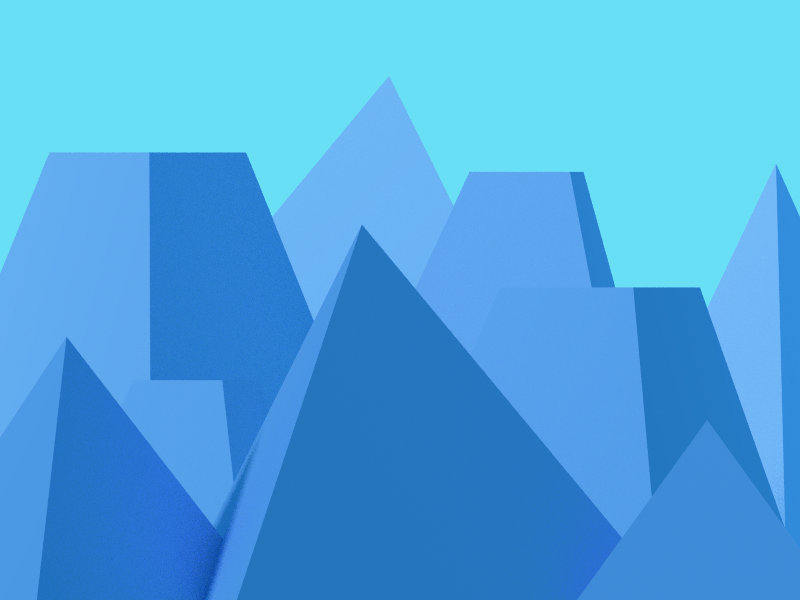
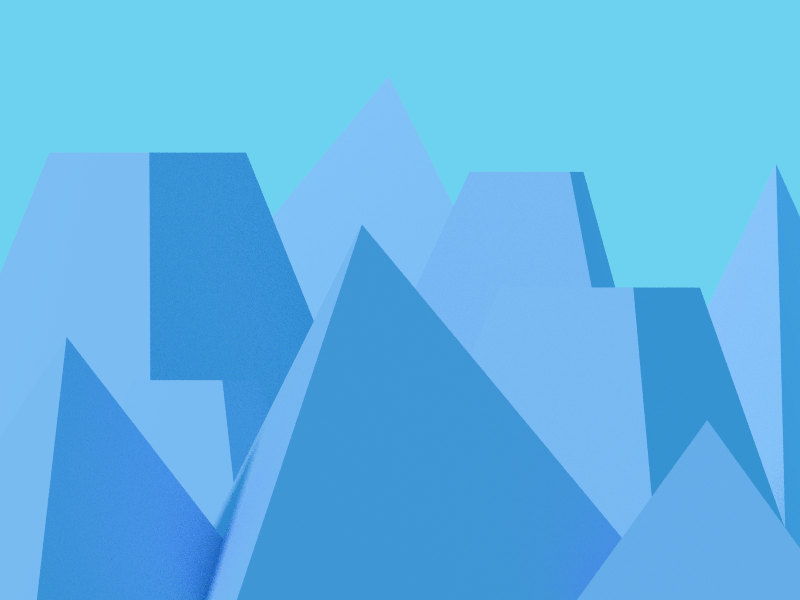
Background image

diff --git a/Main.py b/Main.py
@@ -9,12 +9,12 @@ from pygame.locals import *
 from Rabbit import *
 from Animation import *
 from Object import *
+from Resources import *
 
 class BumpNJump():
 
 	def initObjects(self):
-		self.objectList.append(Object("obj1", "earth.png", 100, 550))
-		self.objectList.append(Object("obj2", "earth.png", 50, 500))
+		self.objectList.append(Object("obj1", "earth.png", 250, 550))
 
 		for obj in self.objectList:
 			self.objectSpritesList.add(pygame.sprite.RenderPlain(obj))
@@ -27,9 +27,10 @@ class BumpNJump():
 		screen = pygame.display.set_mode((800, 600))
 		pygame.display.set_caption("Bump'N'Jump")
 
+		backgroundImage, backgroundRect = loadPNG("background.png")
+
 		background = pygame.Surface(screen.get_size())
 		background = background.convert()
-		background.fill((100, 150, 100))
 
 		rabbit = Rabbit(1, "john", self.objectList, self.objectSpritesList)
 		animRabbitSprite = pygame.sprite.RenderPlain(rabbit.getAnim())
@@ -39,7 +40,7 @@ class BumpNJump():
 
 		clock = pygame.time.Clock()
 
-		screen.blit(background, (0, 0))
+		screen.blit(backgroundImage, (0, 0))
 		pygame.display.flip()
 
 		while 1:
@@ -80,9 +81,9 @@ class BumpNJump():
 					if event.key == K_RIGHT:
 						rabbit.moveRightStop()
 
-			screen.fill((100, 150, 100))
-			screen.blit(background, rabbit.rect, rabbit.rect)
-			screen.blit(background, rabbit.getAnim().getRect(), rabbit.getAnim().getRect())
+			screen.blit(backgroundImage, backgroundRect, backgroundRect)
+			screen.blit(backgroundImage, rabbit.rect, rabbit.rect)
+			screen.blit(backgroundImage, rabbit.getAnim().getRect(), rabbit.getAnim().getRect())
 
 			for obj in self.objectList:
 				screen.blit(background, obj.rect, obj.rect)

diff --git a/Rabbit.py b/Rabbit.py
@@ -37,8 +37,8 @@ class Rabbit():
 		self.jumpSound = pygame.mixer.Sound("resources/sound/jump.wav")
 
 		self.velocity = 7
-		self.gravity = 1.2
-		self.jumpVelocity = -15
+		self.gravity = 0.6
+		self.jumpVelocity = -8
 
 		self.movePos = [0,0]
 		self.rect.topleft = (300, self.floorLevel)
@@ -124,18 +124,24 @@ class Rabbit():
 							self.movePos[1] = 0.01
 
 			if ((self.rect.y + self.rect.h) > obj.rect.y) and (self.rect.y < obj.rect.y):
+				print "bla1"
 				if (self.rect.x + self.rect.w) > obj.rect.x:
+					print "bla2"
 					if self.rect.x < (obj.rect.x + obj.rect.w):
+						print "bla3"
 						if self.movePos[1] >= 0 and not self.isOnBlock:
+							print "bla4"
+							self.rect.y = obj.rect.y - self.rect.h
+							self.movePos[1] = 0
 							self.isJumping = False
 							self.isOnBlock = True
-							self.movePos[1] = 0
-							self.rect.y = obj.rect.y - self.rect.h
 
 			else:
 				if self.isOnBlock:
 					self.isOnBlock = False
 					self.movePos[1] = 0.01
+
+			print self.isOnBlock
 
 			# if ((self.rect.y + self.rect.h) > obj.rect.y) and ((self.rect.y + self.rect.h) < (obj.rect.y + 25)) and (self.rect.y < obj.rect.y):
 			# 	if (self.rect.x + self.rect.w) > obj.rect.x:
@@ -152,7 +158,7 @@ class Rabbit():
 			# 		self.movePos[1] = 0.01
 
 	def jump(self):
-		if self.isJumping == False:
+		if not self.isJumping:
 			self.jumpSound.play()
 			self.movePos[1] = self.jumpVelocity
 		self.isJumping = True
